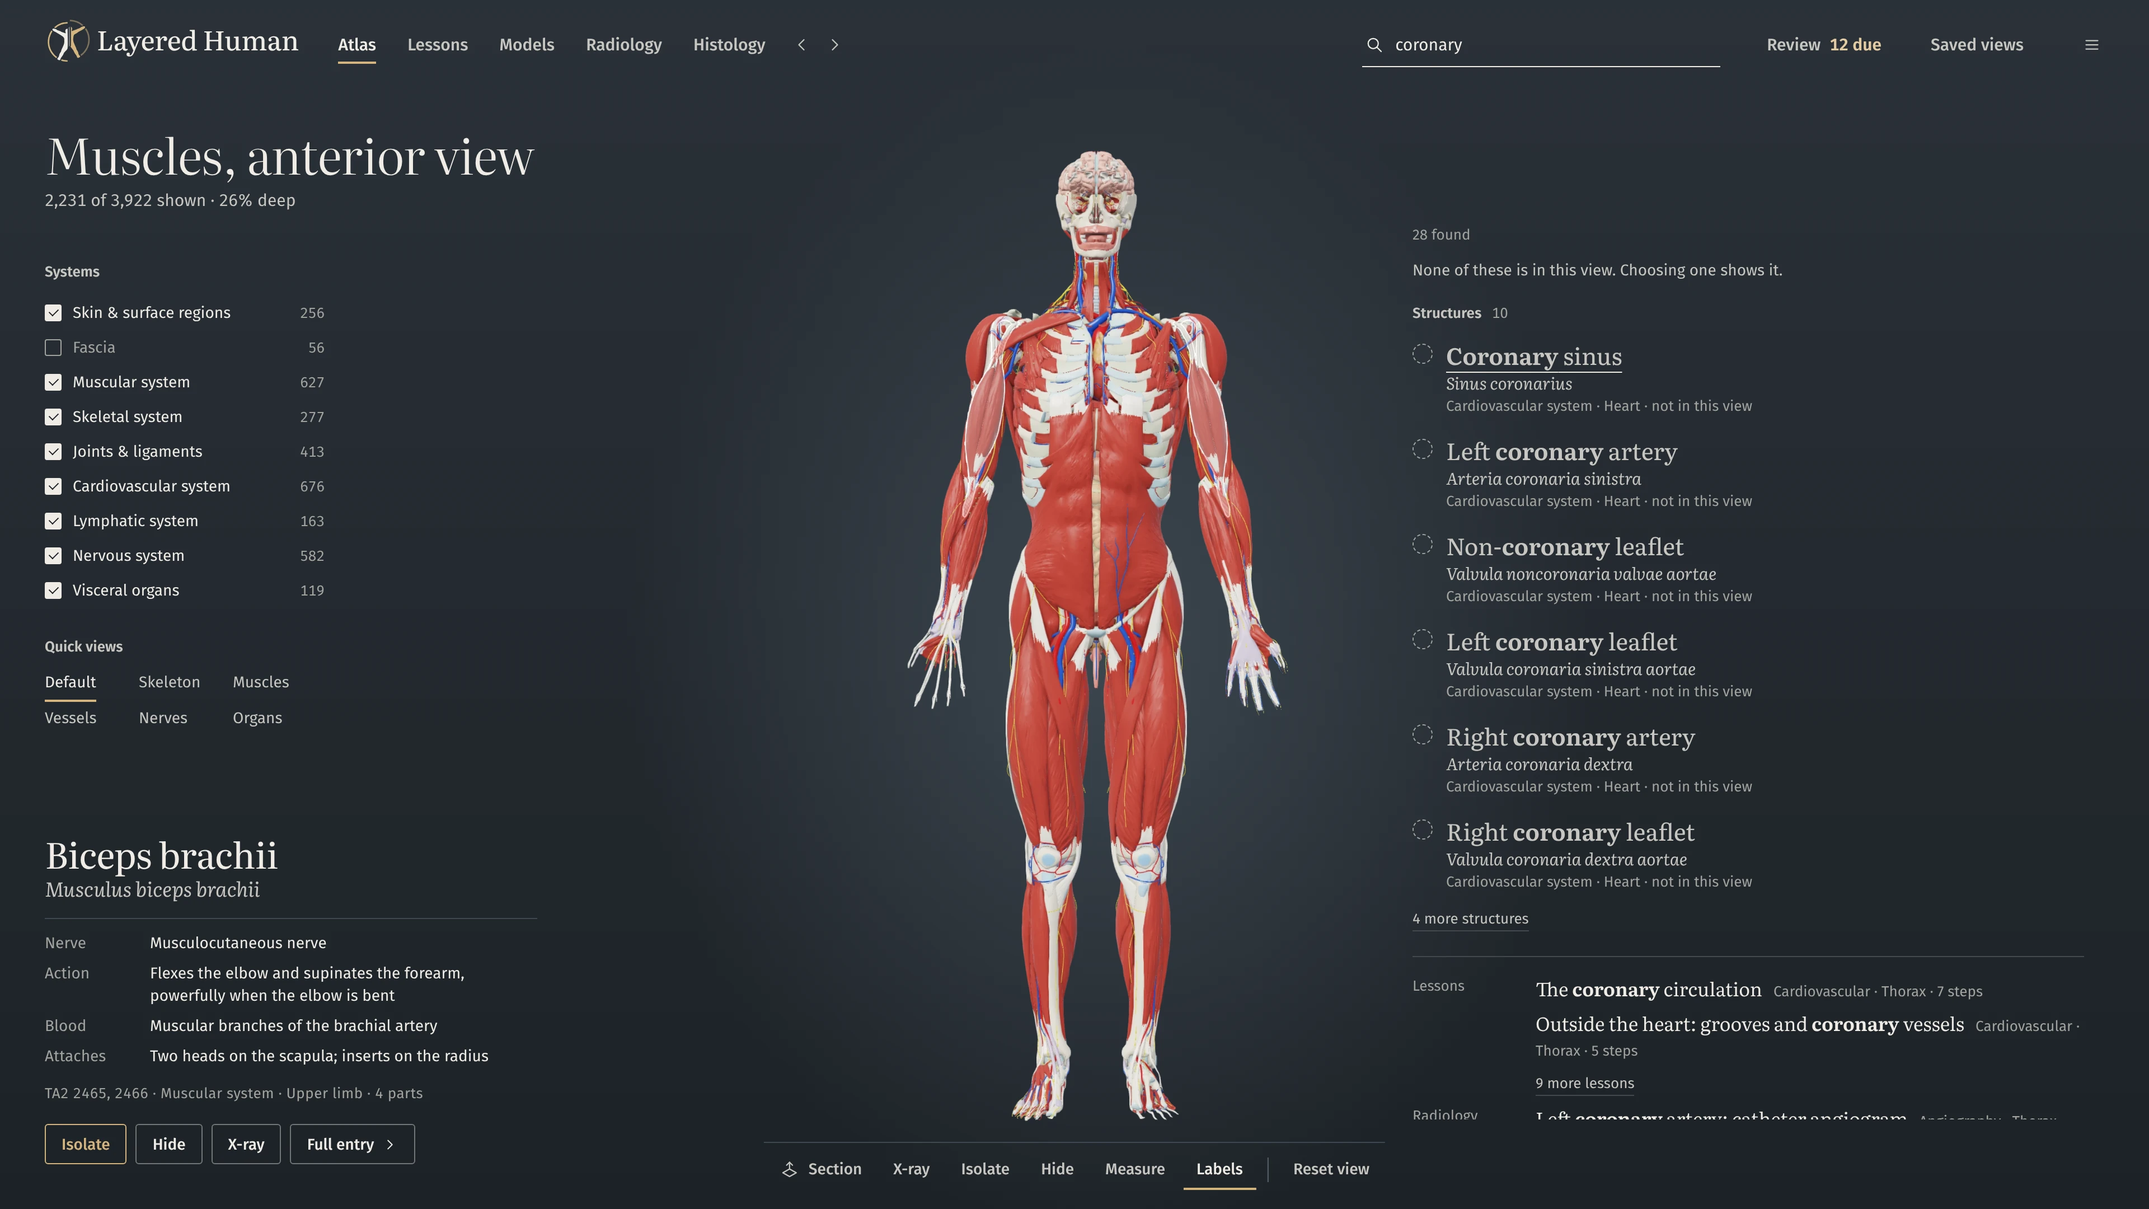
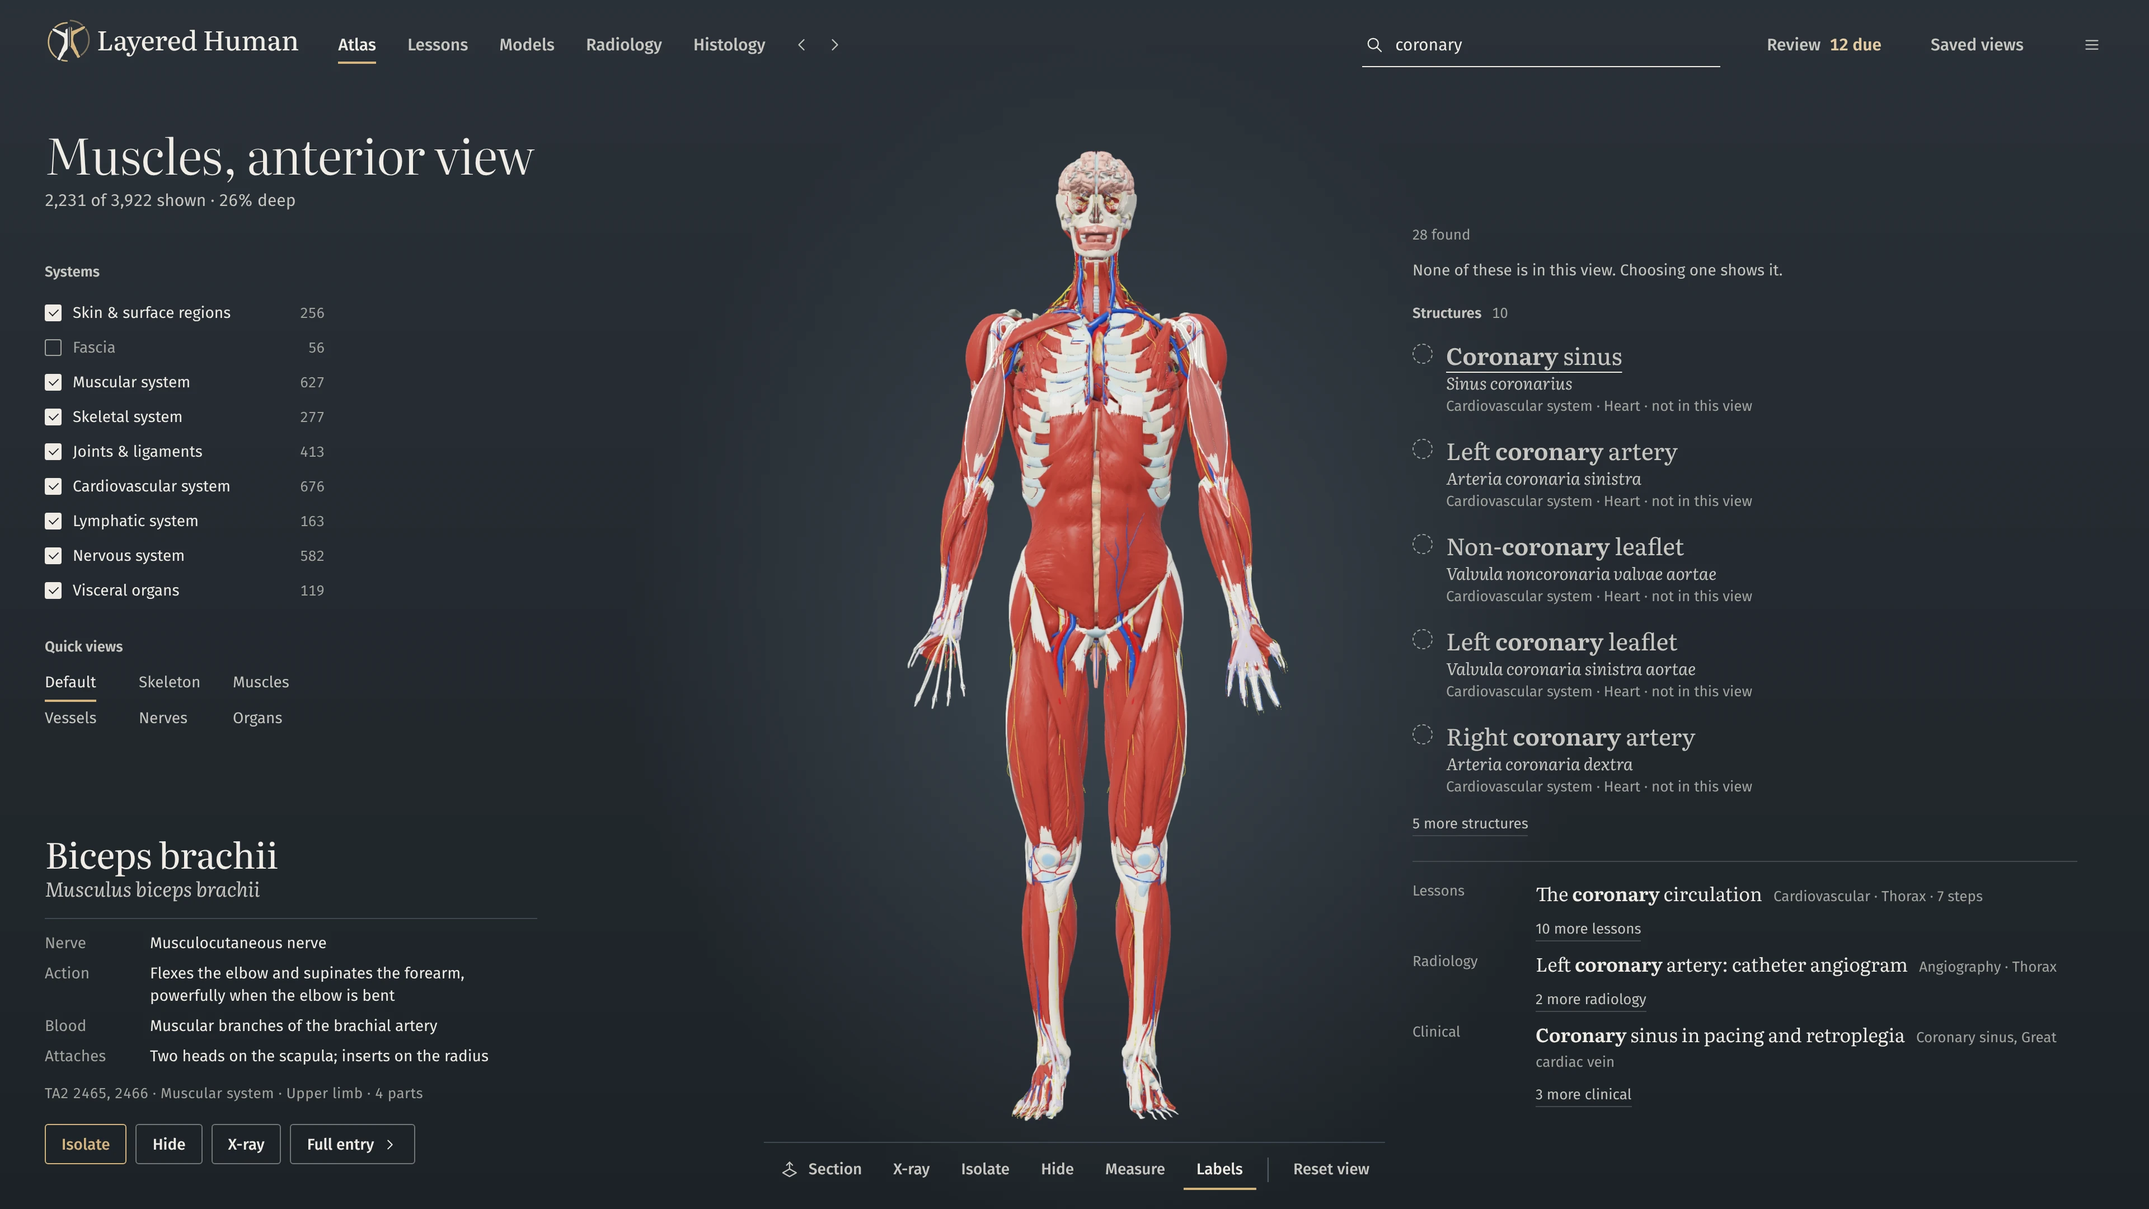
Search options: lists fitted to the room, no text cut through
Each results list is measured after it is built and trims its kinds until it fits, ending on its own
"n more" links; anything that can still overflow scrolls in a box that fades into the wall at both
ends. The brass nav underline no longer draws under the circles, and option 2's hovered row has one
underline. The 23 renders that changed are replaced.

Claude-Session: https://claude.ai/code/session_01V6Rv2hd8qtgD4JUJWb2Nr9

Changed region(s): [[0.6562, 0.6824, 0.9688, 0.9306]]

diff --git a/docs/design/2026-10-14-layered-human/app/specimen-search/search.js b/docs/design/2026-10-14-layered-human/app/specimen-search/search.js
@@ -186,11 +186,58 @@
       else if (res.fuzzy) note = `<p class="sx-fz">No exact match for “${esc(S.q.trim())}”. Close spellings:</p>`;
       else if (v !== '3' && !res.list.some(e => anchorOf(e))) note = `<p class="sx-fz">None of these is in this view. Choosing one shows it.</p>`;
     }
-    let num = 0, i = 0;
     const q = S.last && S.q.trim() && !(S.last.fuzzy) ? S.last.q : '';
+    const head = v === '2' ? `<div class="sx-word">${S.q.trim() ? esc(S.q.trim()) : '<span class="sx-ph">Index</span>'}<span class="sx-count num">${S.q.trim() && count ? count + (count === 1 ? ' entry' : ' entries') : ''}</span></div><button class="sx-close">Close the index</button>`
+      : v === '1' && S.q.trim() && count ? `<div class="sx-count num">${count} found</div>` : '';
+    const isSt = g => g.name === 'Structures' || g.name === 'In this view';
+    // Each kind shows its cap, or every row when only one more would be left ("1 more" takes the room of the row it hides).
+    const base = g => { const c = isSt(g) ? cap.s : cap.o; return g.rows.length === c + 1 ? c + 1 : c; };
+    const keep = Object.keys(S.expand).length ? S.fit || {} : {};
+    const caps = {};
+    groups.forEach(g => { caps[g.name] = keep[g.name] || base(g); });
+    const top = S.scroller ? S.scroller.scrollTop : 0;
+    paint(groups, caps, q, head, note, v);
+    // The list ends on its own "more" links: while it is taller than its room, the other kinds give up rows (the lowest
+    // first, down to one each), then the structures (down to three). Opened groups are never trimmed. Whatever can still
+    // overflow (opened groups, a shorter room) scrolls under the wall's own fade.
+    if (!Object.keys(S.expand).length) {
+      const steps = [];
+      const left = (g, c) => g.rows.length - c !== 1;   // never trim to a lone "1 more"
+      groups.slice().reverse().filter(g => !isSt(g)).forEach(g => { if (caps[g.name] > 1 && left(g, 1)) steps.push([g.name, 1]); });
+      groups.filter(isSt).forEach(g => { for (let c = caps[g.name] - 1; c >= 3; c--) if (left(g, c)) steps.push([g.name, c]); });
+      groups.slice().reverse().filter(g => !isSt(g)).forEach(g => { if (caps[g.name] > 1 && !left(g, 1)) steps.push([g.name, 1]); });   // last resort
+      for (const [name, c] of steps) {
+        if (fits()) break;
+        caps[name] = c;
+        paint(groups, caps, q, head, note, v);
+      }
+      S.fit = caps;
+    } else S.scroller.scrollTop = top;
+    if (P.get('hover') === 'auto' && !S.autoDone) { S.autoDone = true; const k = rows.findIndex(r => r.anchor); S.active = k < 0 ? 0 : k; }
+    S.active = Math.min(S.active, rows.length - 1);
+    placeDots();
+    fade();
+    paintActive();
+    if (v === '3') {
+      titleLine.innerHTML = S.q.trim() ? `<span class="num">${count ? count + ' found' : 'Nothing found'}</span> · <a class="sx-back">back to Muscles, anterior view</a>` : `<a class="sx-back">back to Muscles, anterior view</a>`;
+    }
+  }
+  const fits = () => S.scroller.scrollHeight <= S.scroller.clientHeight + 1;
+  // the fade shows only where a line runs under an edge: at the foot while more is below, at the head once scrolled
+  function fade() {
+    const el = S.scroller; if (!el) return;
+    const over = !fits();
+    el.classList.toggle('sx-over', over);
+    el.classList.toggle('sx-below', over && el.scrollTop + el.clientHeight < el.scrollHeight - 2);
+    el.classList.toggle('sx-above', over && el.scrollTop > 2);
+  }
+
+  function paint(groups, caps, q, head, note, v) {
+    let num = 0, i = 0;
+    rows = [];
     const html = groups.map(g => {
       const st = g.name === 'Structures' || g.name === 'In this view';
-      const limit = S.expand[g.name] ? 999 : (st ? cap.s : cap.o);
+      const limit = S.expand[g.name] ? 999 : caps[g.name];
       const vis = g.rows.slice(0, limit);
       const lis = vis.map(r => {
         r.struct = st && r.e.kind !== 'recent';
@@ -202,16 +249,9 @@
       const more = g.rows.length > vis.length ? `<button class="sx-more" data-more="${g.name}">${g.rows.length - vis.length} more ${g.name === 'Structures' ? 'structures' : g.name.toLowerCase()}</button>` : '';
       return `<section class="sx-g${st ? ' is-st' : ''}" data-kind="${g.name}"><h3 class="sx-h">${g.name}${S.q.trim() ? ` <span class="n num">${g.rows.length}</span>` : ''}</h3><ol>${lis}</ol>${more}</section>`;
     }).join('');
-    const head = v === '2' ? `<div class="sx-word">${S.q.trim() ? esc(S.q.trim()) : '<span class="sx-ph">Index</span>'}<span class="sx-count num">${S.q.trim() && count ? count + (count === 1 ? ' entry' : ' entries') : ''}</span></div><button class="sx-close">Close the index</button>`
-      : v === '1' && S.q.trim() && count ? `<div class="sx-count num">${count} found</div>` : '';
     layer.innerHTML = `<div class="sx-panel">${head}${note}<div class="sx-cols">${html}</div></div>`;
-    if (P.get('hover') === 'auto' && !S.autoDone) { S.autoDone = true; const k = rows.findIndex(r => r.anchor); S.active = k < 0 ? 0 : k; }
-    S.active = Math.min(S.active, rows.length - 1);
-    placeDots();
-    paintActive();
-    if (v === '3') {
-      titleLine.innerHTML = S.q.trim() ? `<span class="num">${count ? count + ' found' : 'Nothing found'}</span> · <a class="sx-back">back to Muscles, anterior view</a>` : `<a class="sx-back">back to Muscles, anterior view</a>`;
-    }
+    S.scroller = layer.querySelector(v === '2' ? '.sx-cols' : '.sx-panel');
+    S.scroller.addEventListener('scroll', () => { fade(); paintActive(); }, { passive: true });
   }
 
   /* ------------------------------------------------------------------ circles on the body */
@@ -241,6 +281,8 @@
     const r = rows[S.active], v = V();
     if (!r || !r.anchor || v === '2') return;
     const li = layer.querySelector(`.sx-r[data-i="${S.active}"]`); if (!li) return;
+    const sr = S.scroller.getBoundingClientRect(), lr = li.getBoundingClientRect();   // no line to a row under the fade
+    if (S.scroller.classList.contains('sx-over') && (lr.top < sr.top || lr.bottom > sr.bottom - 112)) return;
     const ar = app.getBoundingClientRect(), z = ar.width / 1920;
     const nm = li.querySelector('.nm').getBoundingClientRect();
     const side = v === '1' ? 'vr' : 'vl', p = stagePt(anchors[r.anchor + '.' + side]);
@@ -356,7 +398,8 @@
       t.focus({ preventScroll: true }); if (V() === '3') placeCaret(); else input.setSelectionRange(99, 99);
     }
     if (V() !== '3') getSelection().removeAllRanges();
-    R.dataset.searchReady = '1';
+    // the list is fitted to its room by measuring, so measure again once the faces have loaded
+    document.fonts.ready.then(() => { if (S.open) build(); R.dataset.searchReady = '1'; });
   }
   const start = () => (R.dataset.ready === '1' ? init() : setTimeout(start, 30));
   start();

diff --git a/docs/design/2026-10-14-layered-human/app/specimen-search/search.css b/docs/design/2026-10-14-layered-human/app/specimen-search/search.css
@@ -15,8 +15,14 @@
 
 /* ---------------------------------------------------------------- shared result type */
 .sx { position: absolute; inset: 0; pointer-events: none; z-index: 5; }
-.sx-panel { position: absolute; pointer-events: auto; scrollbar-width: none; }
-.sx-panel::-webkit-scrollbar { display: none; }
+.sx-panel { position: absolute; pointer-events: auto; }
+/* A list taller than its room scrolls under the wall's own fade (a mask, so the wall shows through), with a quiet thin
+   scrollbar. Nothing is ever cut through a line: the foot fades while more is below, the head once scrolled. */
+.sx-panel, .sx-cols { scrollbar-width: thin; scrollbar-color: var(--line-2) transparent; overscroll-behavior: contain; }
+.sx-over { --fa: 0px; --fb: 0px; -webkit-mask-image: linear-gradient(180deg, transparent 0, #000 var(--fa), #000 calc(100% - var(--fb)), transparent 100%);
+  mask-image: linear-gradient(180deg, transparent 0, #000 var(--fa), #000 calc(100% - var(--fb)), transparent 100%); }
+.sx-over.sx-below { --fb: 112px; }
+.sx-over.sx-above { --fa: 48px; }
 .sx-svg { position: absolute; inset: 0; width: 1920px; height: 1080px; pointer-events: none; overflow: visible; z-index: 4; }
 .sx-leader { fill: none; stroke: var(--text); stroke-width: 1; }
 .sx-ring { fill: none; stroke: var(--text); stroke-width: 1.5; }
@@ -49,6 +55,7 @@
   font: 600 12px/1 var(--sans); font-variant-numeric: tabular-nums; color: var(--text); background: var(--stage-bottom);
   box-shadow: inset 0 0 0 1px var(--leader); transition: box-shadow .12s, transform .12s; }
 .sx-dots .ndot { position: absolute; margin: -9px 0 0 -9px; pointer-events: auto; cursor: pointer; }
+.sx .ndot.is-cur::after, .sx-dots .ndot.is-cur::after { content: none; }   /* not the rooms' brass underline */
 .sx .ndot.is-cur, .sx-dots .ndot.is-cur { color: var(--on-accent); background: var(--accent); box-shadow: 0 0 0 1.5px var(--stage-bottom); }
 .sx .ndot.is-active, .sx-dots .ndot.is-active { box-shadow: inset 0 0 0 1.5px var(--text), 0 0 0 3px var(--stage-bottom), 0 0 0 4px var(--text); }
 .sx .ndot.is-cur.is-active, .sx-dots .ndot.is-cur.is-active { box-shadow: 0 0 0 2px var(--stage-bottom), 0 0 0 3px var(--text); }
@@ -63,7 +70,7 @@
    The list is lettered in the right-hand column, beside the body, where the depth rule stands (it steps aside while
    the list is up). Structures first, numbered as on the body; other kinds as quiet lines under a hairline. */
 [data-variant="1"] .sx-on .gauge { opacity: 0; pointer-events: none; }
-[data-variant="1"] .sx-panel { left: 1262px; top: 200px; width: 600px; max-height: 800px; overflow: auto; }
+[data-variant="1"] .sx-panel { left: 1256px; padding-left: 6px; top: 200px; width: 600px; max-height: calc(100% - 244px); overflow-y: auto; }
 [data-variant="1"] .sx-count { height: 32px; font: 400 13px/20px var(--sans); color: var(--text-3); }
 [data-variant="1"] .sx-g.is-st .sx-r { padding: 7px 0 9px; }
 [data-variant="1"] .sx-g.is-st .ndot { margin-top: 4px; }
@@ -101,7 +108,7 @@
 [data-variant="2"] .sx-close:hover { color: var(--text); }
 [data-variant="2"] .sx-fz, [data-variant="2"] .sx-hint { position: absolute; top: 106px; margin: 0; }
 [data-variant="2"] .sx-none { position: absolute; top: 136px; }
-[data-variant="2"] .sx-cols { position: absolute; top: 136px; left: 0; right: 0; display: grid; grid-template-columns: 880px 424px; column-gap: 96px; align-items: start;
+[data-variant="2"] .sx-cols { position: absolute; top: 136px; left: -8px; padding-left: 8px; right: 0; max-height: calc(100% - 136px); overflow-y: auto; display: grid; grid-template-columns: 880px 424px; column-gap: 96px; align-items: start;
   grid-auto-flow: dense; }
 [data-variant="2"] .sx-g { grid-column: 2; padding-top: 12px; border-top: 1px solid var(--hair); margin-bottom: 22px; }
 [data-variant="2"] .sx-g.is-st { grid-column: 1; grid-row: 1 / span 12; }
@@ -110,7 +117,7 @@
 [data-variant="2"] .sx-r { break-inside: avoid; gap: 10px; padding: 4px 0 8px; }
 [data-variant="2"] .sx-r .nm { font-size: 18px; line-height: 24px; font-weight: 400; }
 [data-variant="2"] .sx-r mark { text-decoration: underline 1.5px var(--accent); text-underline-offset: 4px; font-weight: 560; }
-[data-variant="2"] .sx-r.is-active mark { text-decoration-color: var(--text); }
+[data-variant="2"] .sx-r.is-active mark { text-decoration: none; }   /* the row's own underline, once */
 [data-variant="2"] .sx-r .lat { display: block; font-size: 15px; line-height: 20px; }
 [data-variant="2"] .sx-r .mt { display: block; }
 [data-variant="2"] .sx-r .pt { display: inline; }
@@ -134,7 +141,7 @@
 [data-variant="3"] .sx-on .cat, [data-variant="3"] .sx-on .label-card { opacity: 0; pointer-events: none; }
 [data-variant="3"] .sx-chosen .label-card .t, [data-variant="3"] .sx-chosen .label-card .lat { display: none; }
 [data-variant="3"] .sx-chosen .label-card hr { margin-top: 0; }
-[data-variant="3"] .sx-panel { left: 40px; top: 232px; width: 500px; max-height: 790px; overflow: auto; }
+[data-variant="3"] .sx-panel { left: 40px; top: 232px; width: 500px; max-height: calc(100% - 276px); overflow-y: auto; }
 [data-variant="3"] .sx-g { margin-bottom: 20px; }
 [data-variant="3"] .sx-g.is-st .sx-r { padding: 6px 0 9px; }
 [data-variant="3"] .sx-g.is-st .nm { font-size: 23px; line-height: 29px; font-weight: 400; }

diff --git a/docs/design/2026-10-14-layered-human/app/specimen-search/PORT.md b/docs/design/2026-10-14-layered-human/app/specimen-search/PORT.md
@@ -63,7 +63,25 @@ in the app.
     saved.
   - One line: "Type a name, a Latin name or a lesson."
 - **Many results:** each kind shows a few (1: 6 structures and 2 of each other kind; 2: 16 and 3; 3: 5 and 2). Then
-  comes "n more lessons", which really opens the rest in place. Lists scroll with no scrollbar and no foot line.
+  comes "n more lessons", which really opens the rest in place. A kind with exactly one row over its cap shows that
+  row instead of "1 more" (the link would take the row's room).
+- **Nothing is ever cut through a line (fix pass 2).** The list ends on its own "more" links:
+  - **Fitted to the room.** After the list is built (`build()`), `search.js` measures it. While it is taller than its
+    box, the other kinds give up rows, the lowest kind first, down to one each. Then the structures give up rows,
+    down to three. Trims that would leave a lone "1 more" come last. At 1920×1080 every demo state now fits with no
+    scrolling. The list is measured again once the fonts have loaded.
+  - **Box:** the list ends 44 px above the room's foot, level with the wall label's buttons: options 1 and 3 use
+    `max-height: calc(100% - top - 44px)`; in option 2 the columns (`.sx-cols`) use `max-height: calc(100% - 136px)`.
+  - **Overflow** (after "n more" opens a kind, or in a shorter window): the box scrolls under the wall's own fade, a
+    CSS mask (`.sx-over`), so the wall shows through and nothing is painted over it. The foot fades over 112 px while
+    more is below (`.sx-below`); the head fades over 48 px once scrolled (`.sx-above`); at the very end the foot is
+    clear, so the list closes on its last link. The scrollbar is thin, with a `line-2` thumb on no track
+    (`scrollbar-width: thin`).
+  - Hover leaders are not drawn to a row under the fade. Opening "n more" keeps the scroll position.
+  - **Qt:** the result widget does the same: take the available height, then reduce the per-kind caps in the same
+    order until the rows fit. For overflow, paint the column into a layer and multiply it by a vertical
+    `QLinearGradient` alpha (`CompositionMode_DestinationIn`), not a band in the wall colour. Use a thin `QScrollBar`
+    with a `line-2` handle and no track.
 - **None:** "Nothing for "wisdom tooth"." Then "Check the spelling, or try one word or the Latin name." Then links to
   browse Systems, Lessons, Radiology and Histology. **Typo:** "No exact match for "bycep". Close spellings:".
 - **Nothing in view** (options 1 and 2, "coronary" on the muscle figure): "None of these is in this view. Choosing one
@@ -78,13 +96,16 @@ in the app.
 - the current selection is filled brass;
 - hovered or keyboard-active: a `text` ring with a gap;
 - a structure not in view gets a dashed `text-3` ring and "not in this view".
+- The base page's global `.is-cur::after` (the rooms' brass underline) must not reach the circles:
+  `.ndot.is-cur::after { content: none; }`. The first pass let it draw a brass bar under every current circle.
 
 The circles sit on the plate's anchors (`LH_PLATES.anchors.hero26_sel_7cc8da`, both sides). `ANCHOR` in search.js maps
 entry titles to anchor keys.
 
 ## Option 1: On the body
 - **CSS:** the shared block plus `[data-variant="1"]`. When merging, drop the prefix.
-- **Layout:** the list is lettered at left 1262, top 200, 600 wide, in the right-hand column. The depth rule fades out
+- **Layout:** the list is lettered at left 1262, top 200, 600 wide, in the right-hand column. The box starts at 1256
+  with 6 px of padding so the active circle's ring is not clipped. It ends at 1036. The depth rule fades out
   while the list is up and comes back on close.
   - Structures: number, name (Literata 21), Latin (italic 15), meta and parts (Fira 13).
   - Other kinds: one line each under a hairline, with the kind in a 110 px left column.
@@ -113,7 +134,9 @@ entry titles to anchor keys.
   - From the content top line (232), Structures runs in two 416 px columns and the other kinds in a third.
   - Entries: name and marked letters (Literata 18), Latin (italic 15), then meta and parts run in.
   - Structures in view are numbered, and the same numbers stand on the small body (circles at 1.4×).
-- **Hover:** the name is underlined in `text` and its circle grows on the body. **Close:** Esc, "Close the index", a
+- **Hover:** the name is underlined in `text` (the brass underline on the matched letters gives way to it, so the
+  row has one line, not two) and its circle grows on the body. The columns box starts 8 px left, with 8 px of
+  padding, so the circles' rings are not clipped. **Close:** Esc, "Close the index", a
   click on the body or the wall, or choosing; the room comes back.
 - **Qt:** the 3D view can be scaled into the right column with a viewport rect (the camera stays put) and dimmed in the
   background pass. The index is a wall-lettered widget over the stage, in columns.
@@ -123,7 +146,7 @@ entry titles to anchor keys.
   (`.exhibit h1`, `contentEditable` while open) puts the caret in the title. The empty title shows "Search" in `text-3`.
 - **Layout:**
   - The line under the title reads "72 found · back to Muscles, anterior view".
-  - Results are lettered at left 40, top 232, 500 wide, where Systems and the wall label were; those fade out while
+  - Results are lettered at left 40, top 232, 500 wide (ending at 1036), where Systems and the wall label were; those fade out while
     open. The depth rule and dock stay.
   - Structures: name (Literata 23), Latin (16), meta.
 - **Hover** draws a single leader from the end of the name to a ring on the structure, one at a time. Base labels stay
